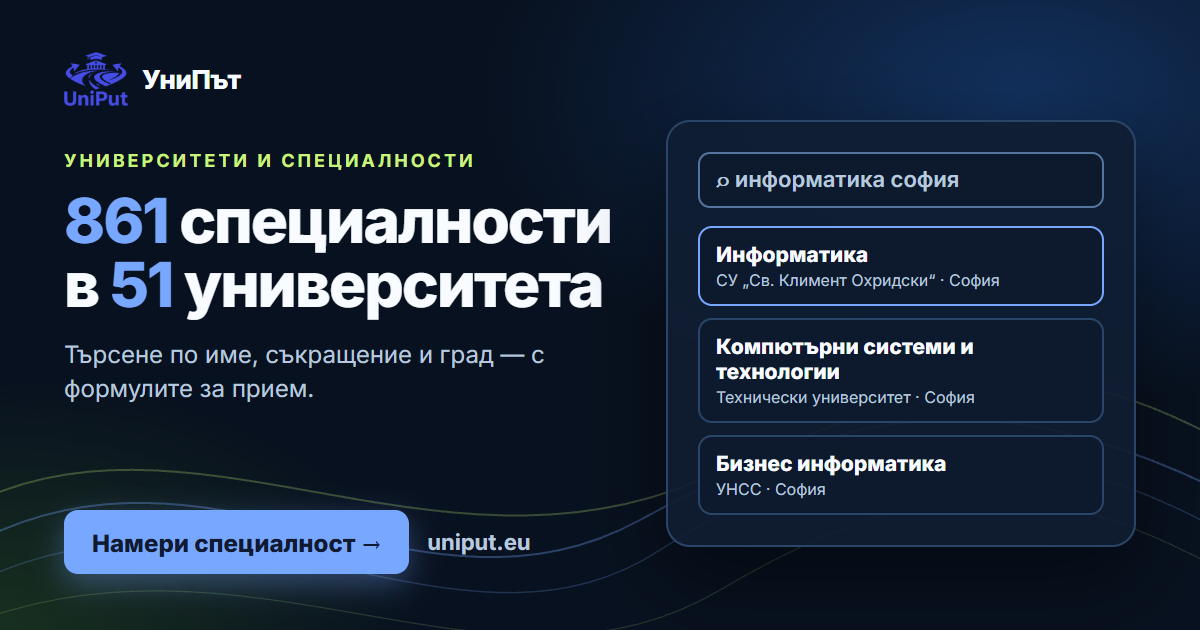
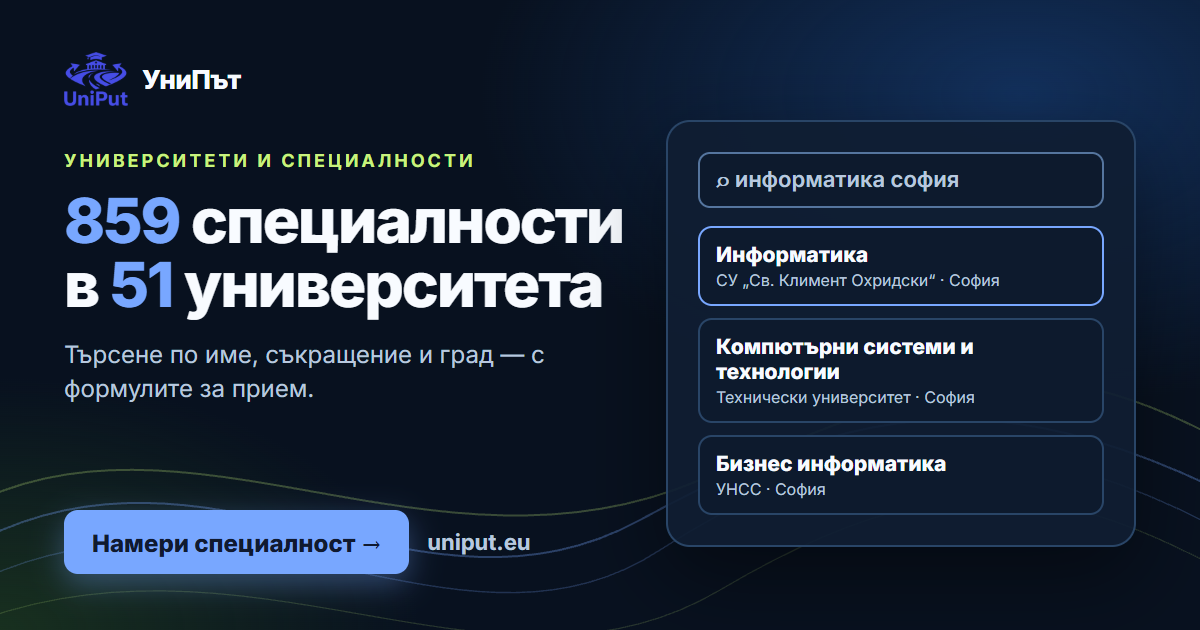
fix(stats): 859 специалности и 1269 програми — броят се само за текущия прием
verify-stats броеше всички учебни години, затова включваше и 2 стари програми
на НБУ от 2025/2026 (861 / 1271). Сайтът показва прием 2026/2027 — скриптът
вече брои само ADMISSION_YEAR. Поправени и числата в OG картинките.

Changed region(s): [[0.0925, 0.3016, 0.5242, 0.4222]]

diff --git a/scripts/og/og-cards.html b/scripts/og/og-cards.html
@@ -60,7 +60,7 @@ h1 em { font-style: normal; color: #78A7FF; }
   <div class="left">
     <p class="eyebrow">Кандидат-студенти · 2027</p>
     <h1>Разбери дали <em>ще влезеш</em></h1>
-    <p class="sub">Приемен бал по официалната формула на 1271 програми в 51 университета — преди да кандидатстваш.</p>
+    <p class="sub">Приемен бал по официалната формула на 1269 програми в 51 университета — преди да кандидатстваш.</p>
   </div>
   <div class="panel">
     <div class="row"><div><p class="muted" style="font-size:17px;">СУ „Св. Климент Охридски“</p><p style="font-size:30px;font-weight:800;margin-top:4px;">Информатика</p></div>
@@ -114,7 +114,7 @@ h1 em { font-style: normal; color: #78A7FF; }
   <div class="brand"><img src="/public/logo-uniput.png" alt=""><span>УниПът</span></div>
   <div class="left">
     <p class="eyebrow">Университети и специалности</p>
-    <h1><em>861</em> специалности в <em>51</em> университета</h1>
+    <h1><em>859</em> специалности в <em>51</em> университета</h1>
     <p class="sub">Търсене по име, съкращение и град — с формулите за прием.</p>
   </div>
   <div class="panel">
@@ -157,7 +157,7 @@ h1 em { font-style: normal; color: #78A7FF; }
   </div>
   <div style="position:absolute;left:64px;right:64px;bottom:140px;display:flex;gap:20px;">
     <div style="flex:1;border-top:4px solid #78A7FF;padding-top:14px;"><p class="mono" style="font-size:50px;font-weight:800;">51</p><p class="muted" style="font-size:18px;">университета</p></div>
-    <div style="flex:1;border-top:4px solid #C9F27E;padding-top:14px;"><p class="mono" style="font-size:50px;font-weight:800;">861</p><p class="muted" style="font-size:18px;">специалности</p></div>
+    <div style="flex:1;border-top:4px solid #C9F27E;padding-top:14px;"><p class="mono" style="font-size:50px;font-weight:800;">859</p><p class="muted" style="font-size:18px;">специалности</p></div>
     <div style="flex:1;border-top:4px solid #78A7FF;padding-top:14px;"><p class="mono" style="font-size:50px;font-weight:800;">781</p><p class="muted" style="font-size:18px;">паралелки след 7. клас</p></div>
     <div style="flex:1;border-top:4px solid #C9F27E;padding-top:14px;"><p class="mono" style="font-size:50px;font-weight:800;">1002</p><p class="muted" style="font-size:18px;">професии в RIASEC</p></div>
   </div>

diff --git a/src/lib/siteStats.js b/src/lib/siteStats.js
@@ -14,11 +14,11 @@
 /** Брой различни висши училища с данни за прием в базата. */
 export const UNIVERSITIES = 51;
 
-/** Брой различни имена на специалности с формула за балообразуване. */
-export const SPECIALTIES = 861;
+/** Брой различни имена на специалности с формула за балообразуване (прием ADMISSION_YEAR). */
+export const SPECIALTIES = 859;
 
-/** Брой двойки университет × специалност (реалният брой програми за прием). */
-export const PROGRAMS = 1271;
+/** Брой двойки университет × специалност (реалният брой програми за прием ADMISSION_YEAR). */
+export const PROGRAMS = 1269;
 
 /** Градове, в които има университет с данни за прием. */
 export const UNIVERSITY_CITIES = 17;
